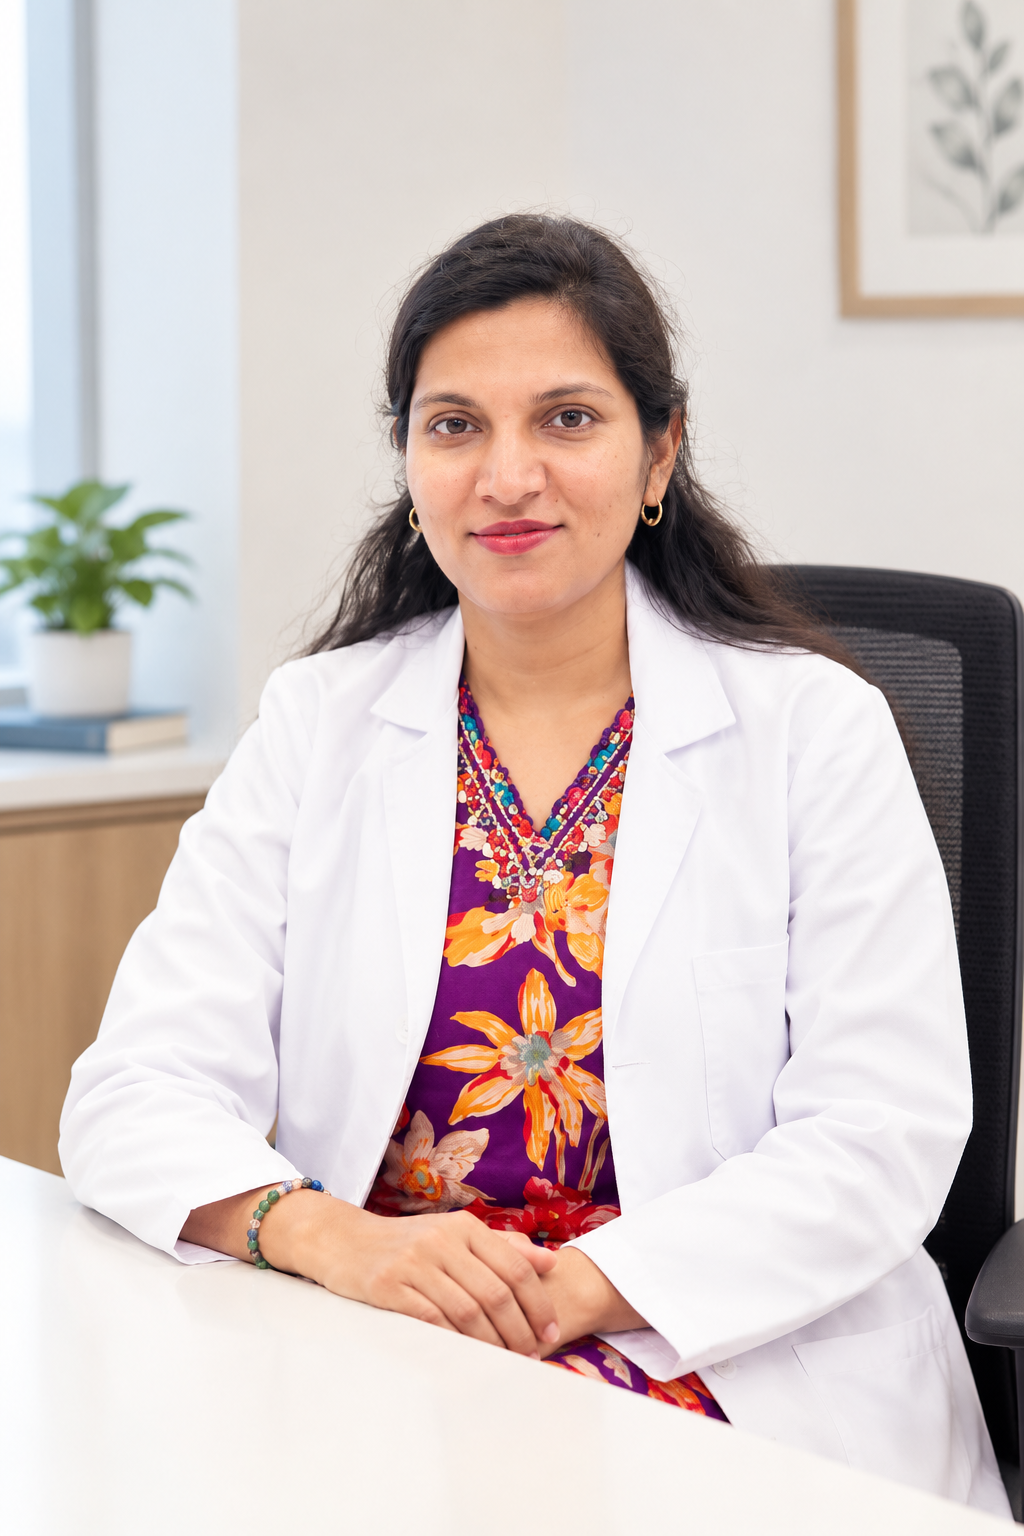
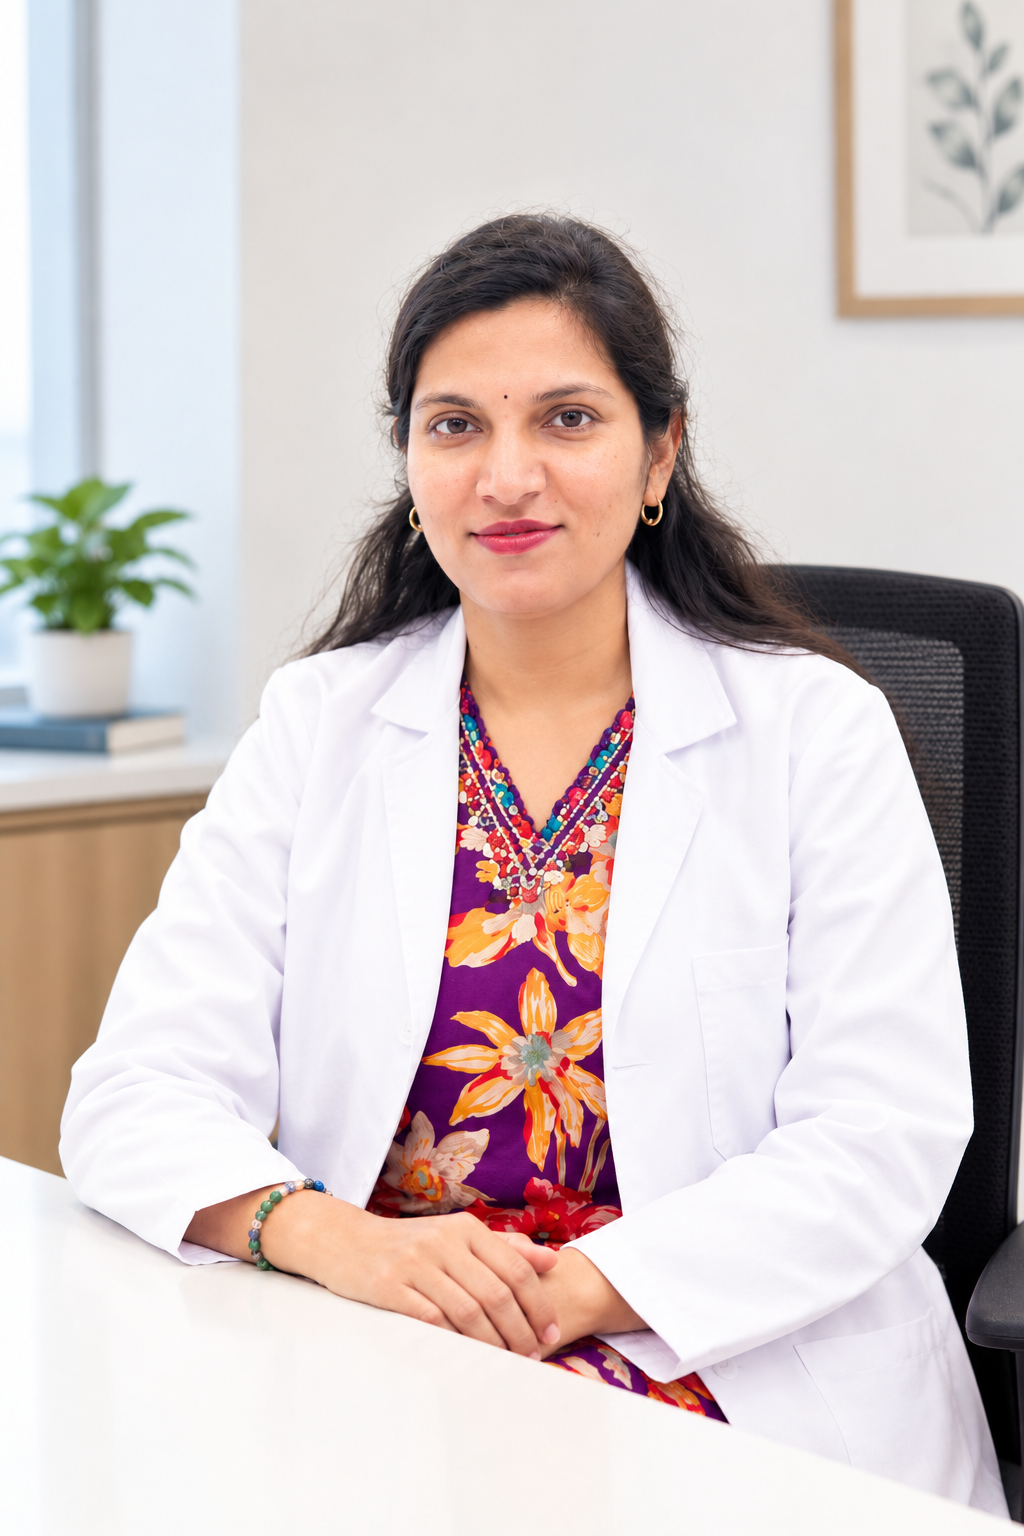
Update doctor portrait and GMB details.

diff --git a/src/data/clinicData.ts b/src/data/clinicData.ts
@@ -19,11 +19,11 @@ export const CLINIC_INFO = {
   languages: "Telugu, English & Hindi",
   areasServed: "Kurmannapalem, Duvvada, Ukkunagaram (Steel Plant Township), Gajuwaka, Vadlapudi & Aganampudi",
   hours: [
-    { days: "Monday – Saturday", time: "9:00 AM – 1:00 PM & 5:00 PM – 9:00 PM" },
-    { days: "Sunday", time: "9:00 AM – 1:00 PM (Morning Appointments Available)" }
+    { days: "Monday – Saturday", time: "9:00 AM – 9:00 PM" },
+    { days: "Sunday", time: "9:00 AM – 5:00 PM" }
   ],
-  googleMapsUrl: "https://maps.google.com/?cid=18218738378875556941",
-  embedMapUrl: "https://www.google.com/maps/embed?pb=!1m18!1m12!1m3!1d3802.203649514781!2d83.1557008!3d17.6974151!2m3!1f0!2f0!3f0!3m2!1i1024!2i768!4f13.1!3m3!1m2!1s0x3a396985ce3b83d7%3A0xfce7f4b005e6544d!2sDr.%20Roja's%20Dental%20Clinic!5e0!3m2!1sen!2sin!4v1710000000000"
+  googleMapsUrl: "https://maps.app.goo.gl/mtauKva9JUmjKvuN6",
+  embedMapUrl: "https://maps.google.com/maps?q=Dr.+Roja's+Dental+Clinic+Kurmannapalem+Visakhapatnam&t=&z=15&ie=UTF8&iwloc=&output=embed"
 };
 
 export const SERVICES: ServiceItem[] = [
@@ -134,19 +134,19 @@ export const REVIEWS: ReviewItem[] = [
     author: "Priya S.",
     location: "Kurmannapalem, Visakhapatnam",
     rating: 5,
-    date: "2 weeks ago",
+    date: "August 2026",
     treatment: "Painless Root Canal",
-    text: "I was terrified of dentists my whole life. Dr. Roja made me feel so comfortable that I actually didn't feel the root canal at all! The clinic on Duvvada station road is spotless clean, the staff is warm, and she explains every step before starting. Highly recommended in Kurmannapalem!",
+    text: "Dr. Roja was extremely gentle, professional, and ensured the procedure was completely painless. Highly recommend this place for anyone looking for quality dental care in Kurmannapalem!",
     verified: true
   },
   {
     id: "rev-2",
     author: "Ravi Kumar M.",
-    location: "Steel Plant Township (Ukkunagaram)",
+    location: "Ukkunagaram (Steel Plant Township)",
     rating: 5,
-    date: "1 month ago",
+    date: "July 2026",
     treatment: "Dental Implants",
-    text: "Got my dental implants done here. The whole process was exceptionally smooth — from the 3D diagnosis to the final crown fitting. Dr. Roja is highly skilled, gentle, and uses modern equipment. Price was very fair and transparent compared to corporate dental hospitals in Vizag.",
+    text: "Dr. Roja and the team were professional, caring, and made me feel comfortable throughout my treatment. Modern equipment, spotless hygiene, and very fair pricing compared to corporate hospitals in Vizag.",
     verified: true
   },
   {
@@ -154,9 +154,9 @@ export const REVIEWS: ReviewItem[] = [
     author: "Lakshmi Devi P.",
     location: "Gajuwaka, Visakhapatnam",
     rating: 5,
-    date: "2 months ago",
-    treatment: "Family Dental Care & Dentures",
-    text: "Took my whole family here — my elderly father for custom dentures, my kids for check-ups, and myself for cleaning. Dr. Roja communicates very warmly in Telugu and handles every age group with extreme patience. She never pushes unnecessary treatments!",
+    date: "August 2026",
+    treatment: "Family Dental Care & Scaling",
+    text: "Warm & Professional. I had a wonderful experience with the dental treatment provided by Dr. Roja. Best budget-friendly clinic with 24/7 assistance and latest digital equipment in Kurmannapalem.",
     verified: true
   },
   {
@@ -164,19 +164,19 @@ export const REVIEWS: ReviewItem[] = [
     author: "Srinivas Rao K.",
     location: "Duvvada, Visakhapatnam",
     rating: 5,
-    date: "3 months ago",
-    treatment: "Crowns & Scaling",
-    text: "Dr. Yenneti Roja is a gem of a doctor. She takes time to explain the diagnosis clearly. Teeth scaling was completely painless, and my ceramic crown fits perfectly without any discomfort. Very convenient location near Kurmannapalem junction.",
+    date: "August 2026",
+    treatment: "Root Canal & Ceramic Crown",
+    text: "Had very good experience with doctor treatment.. Doctor Roja and her team is very helpful and friendly while treating patients. The clinic on Duvvada station road is very easy to locate.",
     verified: true
   },
   {
     id: "rev-5",
     author: "Anand Verma",
-    location: "Sector 6, Ukkunagaram",
+    location: "Sector 6, Steel Plant",
     rating: 5,
-    date: "3 months ago",
-    treatment: "Clear Aligners Consultation",
-    text: "Visited for clear aligner consultation. Dr. Roja explained the timeline, maintenance, and costing with total clarity. The clinic maintains strict sterilization and the team speaks fluent Hindi and English as well, which was very comforting.",
+    date: "July 2026",
+    treatment: "Clear Aligners & Teeth Whitening",
+    text: "Best dental clinic in Kurmannapalem. Dr. Roja explained the clear aligners procedure with complete honesty. Speaking Telugu, Hindi and English makes communication effortless for everyone.",
     verified: true
   }
 ];

diff --git a/index.html b/index.html
@@ -28,6 +28,7 @@
       "image": "https://images.unsplash.com/photo-1629909613654-28e377c37b09?auto=format&fit=crop&q=80&w=1200",
       "@id": "https://drrojasdentalclinic.in",
       "url": "https://drrojasdentalclinic.in",
+      "hasMap": "https://maps.app.goo.gl/mtauKva9JUmjKvuN6",
       "telephone": "+918247491265",
       "priceRange": "₹₹",
       "address": {
@@ -48,19 +49,13 @@
           "@type": "OpeningHoursSpecification",
           "dayOfWeek": ["Monday", "Tuesday", "Wednesday", "Thursday", "Friday", "Saturday"],
           "opens": "09:00",
-          "closes": "13:00"
-        },
-        {
-          "@type": "OpeningHoursSpecification",
-          "dayOfWeek": ["Monday", "Tuesday", "Wednesday", "Thursday", "Friday", "Saturday"],
-          "opens": "17:00",
           "closes": "21:00"
         },
         {
           "@type": "OpeningHoursSpecification",
           "dayOfWeek": "Sunday",
           "opens": "09:00",
-          "closes": "13:00"
+          "closes": "17:00"
         }
       ],
       "aggregateRating": {

diff --git a/src/components/BookingSection.tsx b/src/components/BookingSection.tsx
@@ -195,8 +195,9 @@ export const BookingSection: React.FC = () => {
                       onChange={(e) => setFormState({ ...formState, timeSlot: e.target.value })}
                       className="w-full px-4 py-3 rounded-xl border border-stone-300 focus:border-[#0891B2] focus:ring-2 focus:ring-cyan-200 outline-none text-sm font-sans bg-white"
                     >
-                      <option value="Morning (9:00 AM – 1:00 PM)">Morning Session (9:00 AM – 1:00 PM)</option>
-                      <option value="Evening (5:00 PM – 9:00 PM)">Evening Session (5:00 PM – 9:00 PM)</option>
+                      <option value="Morning (9:00 AM – 1:00 PM)">Morning (9:00 AM – 1:00 PM)</option>
+                      <option value="Afternoon (1:00 PM – 5:00 PM)">Afternoon (1:00 PM – 5:00 PM)</option>
+                      <option value="Evening (5:00 PM – 9:00 PM)">Evening (5:00 PM – 9:00 PM)</option>
                     </select>
                   </div>
                 </div>

diff --git a/src/components/Footer.tsx b/src/components/Footer.tsx
@@ -104,8 +104,8 @@ export const Footer: React.FC = () => {
 
             <div className="pt-2">
               <p className="text-xs font-accent text-amber-300 font-semibold mb-1">Clinic Timings:</p>
-              <p className="text-xs text-cyan-200">Mon–Sat: 9:00 AM – 1:00 PM & 5:00 PM – 9:00 PM</p>
-              <p className="text-xs text-cyan-200">Sunday: 9:00 AM – 1:00 PM</p>
+              <p className="text-xs text-cyan-200">Mon–Sat: 9:00 AM – 9:00 PM</p>
+              <p className="text-xs text-cyan-200">Sunday: 9:00 AM – 5:00 PM</p>
             </div>
           </div>
 

diff --git a/src/components/Navbar.tsx b/src/components/Navbar.tsx
@@ -61,7 +61,7 @@ export const Navbar: React.FC = () => {
           <div className="flex items-center gap-4 text-cyan-100">
             <span className="hidden lg:inline-flex items-center gap-1 text-xs">
               <Clock className="w-3.5 h-3.5 text-amber-400" />
-              Mon–Sat: 9am–1pm & 5pm–9pm
+              Mon–Sat: 9am–9pm | Sun: 9am–5pm
             </span>
             <a 
               href={`https://wa.me/${CLINIC_INFO.whatsappNumber}?text=${whatsappMsg}`}
